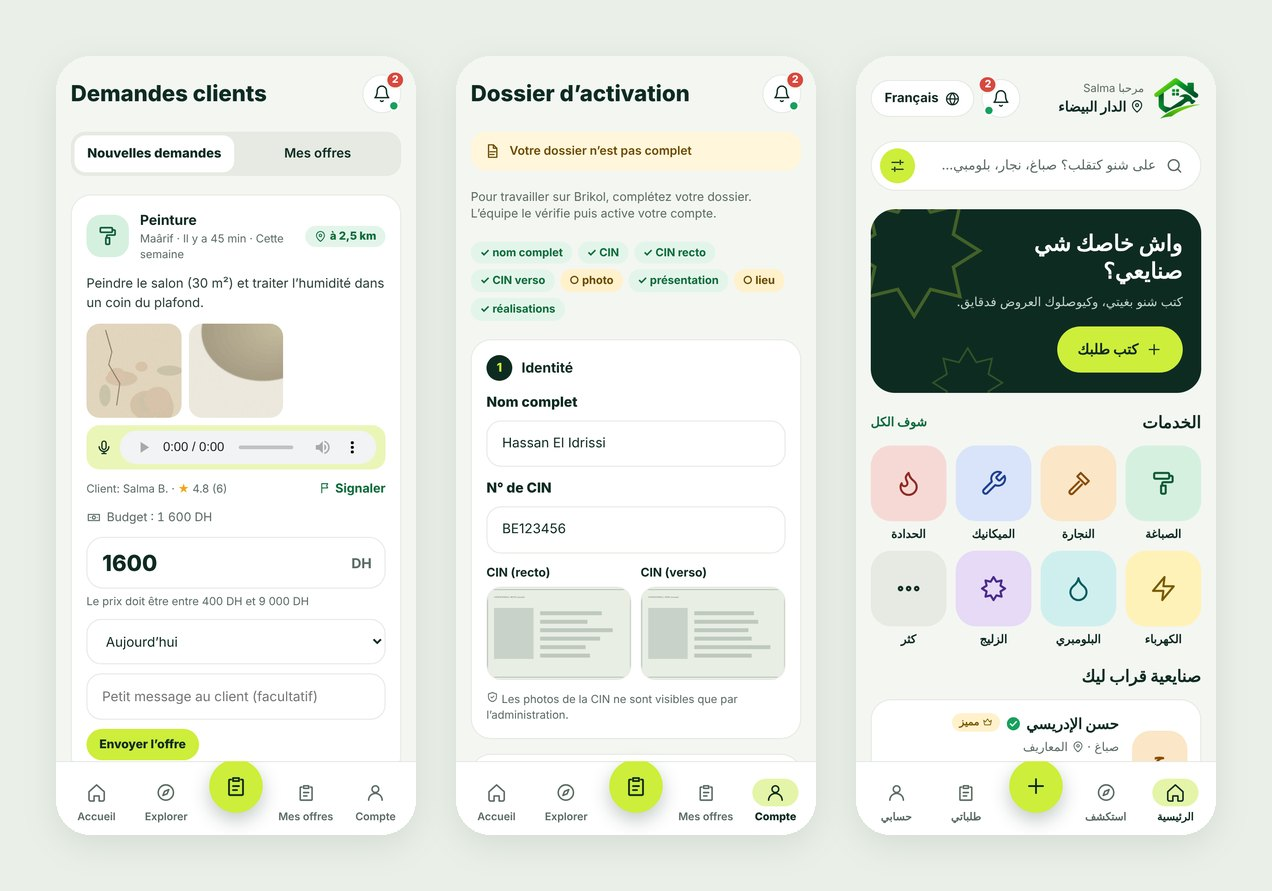
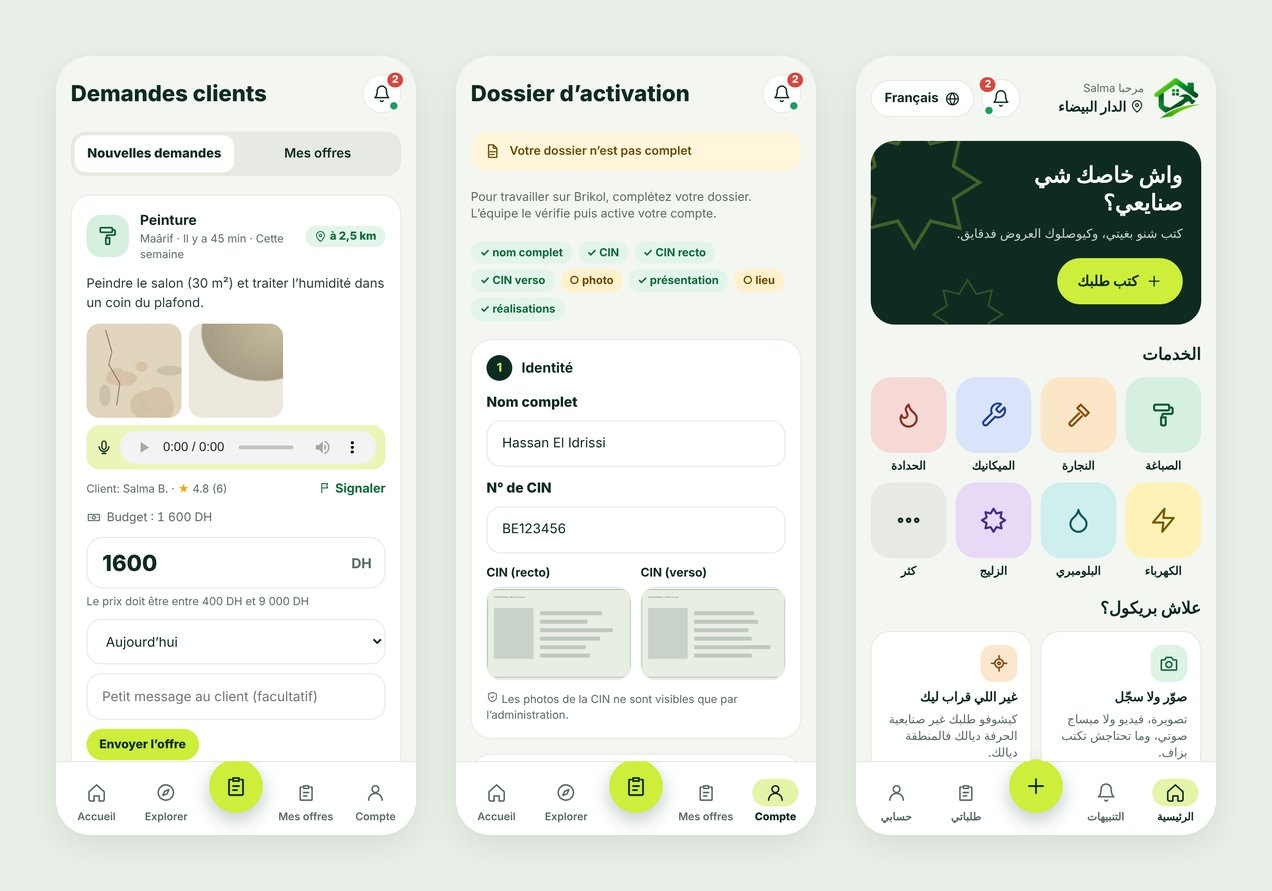
README: live link up top, job protection, fresh screenshots
Claude-Session: https://claude.ai/code/session_01XGxghUyvr6WjBGiaGd1tsJ

Changed region(s): [[0.6745, 0.1515, 0.9505, 0.8788], [0.8585, 0.8788, 0.8892, 0.9394]]

diff --git a/README.md b/README.md
@@ -4,8 +4,10 @@
 
 <p align="center">
   A marketplace for home repairs in Morocco. Clients post a problem, nearby artisans send prices.
-  <br>
-  <a href="https://snai3i.elguennouni.site">Live site</a> ·
+  <br><br>
+  <a href="https://snai3i.elguennouni.site"><b>▶ Try it live: snai3i.elguennouni.site</b></a>
+  <br><br>
+  <a href="https://snai3i.elguennouni.site/app/">Open the app</a> ·
   <a href="docs/SETUP.md">Setup & reference</a> ·
   <a href="deploy/README-DEPLOY.md">Deployment</a>
 </p>
@@ -39,19 +41,27 @@ The whole UI is in Darija (Arabic script, right-to-left) and French, and you can
 - Pick the location on a map, or use the current position
 - Get offers live, without refreshing, and counter-offer on the price
 - Chat with the artisan once an offer is accepted, and agree on an appointment (with a reminder the day before)
-- Rate the artisan, report abuse
+- Follow the job on one screen: the agreed price, extras and advances, and a 4-digit code to give the artisan once paid
+- 7-day warranty: if the problem comes back, the artisan comes back for free
+- Rate the artisan, or press "I have a problem" and someone from the team calls
 
 **For artisans**
 - See only requests for their own trade, inside the radius they chose (5 to 50 km)
 - Send a price, negotiate (up to 6 rounds), see how far the job is and how the client was rated by other artisans
 - Before getting any work, fill an activation file (CIN front/back, photo, past work, zone) that a person from the team checks
+- On the job: three big buttons (I'm here, Extra, Finished), a number pad for the client's code, photos before / after, and a "listen" button that reads the screen aloud for people who don't read easily
+- "The client didn't pay" goes straight to the team with the whole file
 
 **For the team**
 - Dashboard with the numbers that matter (requests per day, signups, per-trade breakdown, live connections)
 - Review artisan files, approve or reject with a reason
+- Handle disputes with everything in one place (agreement, extras, advances, timeline, photos, chat, both phone numbers), give strikes; 3 strikes in 30 days suspend an account for a week
 - Handle reports, block users, edit trades and their price bounds, send broadcasts
 - An owner account and staff accounts with only the permissions they need (files, reports, billing…). You can't turn a normal user into an admin; staff are created from the Team tab.
 - Every sensitive action is written to an audit log
+
+![The job screen: client, artisan, code pad, warranty](docs/screenshots/job-flow.jpg)
+<p align="center"><sub>After an offer is accepted: what the client sees (an extra to accept, the code), the artisan's big buttons and code pad (in Darija), and the warranty once the job is closed</sub></p>
 
 <table>
   <tr>
@@ -98,6 +108,8 @@ The Spring Boot app serves everything: the API, the built React app under `/app/
 **Price range per trade.** When a client types a budget, or an artisan types a price, it has to be inside a range, otherwise you get 5 DH jokes or 500 000 DH typos. Each trade starts with bounds set by the admin. Once there are enough accepted offers for that trade, the range tightens around real prices (from 60% of the 10th percentile to 160% of the 90th). The range is frozen on the request when it's created, so it doesn't move under people mid-negotiation. See `PricingService`.
 
 **Negotiation.** An offer remembers who spoke last, how many rounds happened and the first price. You can only answer when it's your turn, and after 6 rounds it's take it or leave it. Small state machine, but it removed a lot of back and forth in chat.
+
+**Cash, but with a paper trail.** Brikol never holds money, so trust comes from records both sides confirm. An extra only counts once the client accepts it; an advance only counts once the other side confirms it. The job is closed when the artisan types the client's 4-digit code (wrong tries are counted even though the request fails, using `noRollbackFor`), or by the client alone. Warranty claims the artisan ignores for 72 hours are escalated by a scheduled job. Important events also go out by WhatsApp through Twilio, because that's where artisans actually read messages.
 
 **Matching and location privacy.** Requests are matched by trade and by haversine distance between the client's pin and the artisan's base, within the artisan's radius (falls back to same city when there are no coordinates). Before an offer is accepted, the artisan only sees the position rounded to about 1 km and no address. The exact place and phone number are revealed only after acceptance.
 
